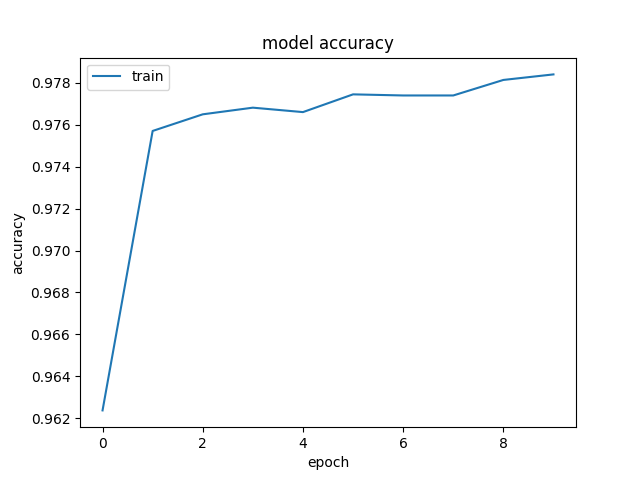
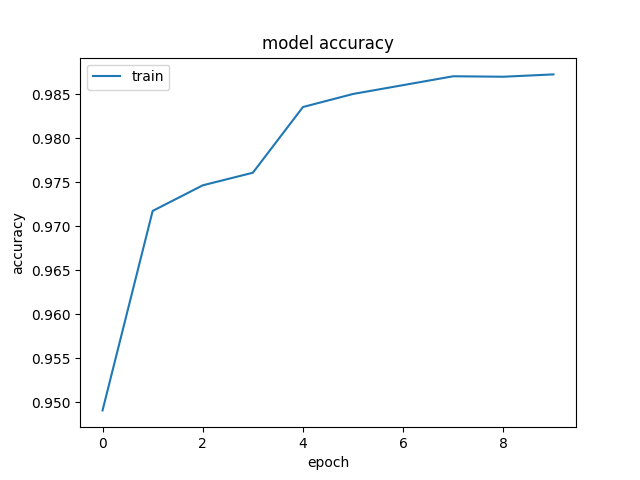
finish the tasks

diff --git a/lab-cs-ml-00301/u3.py b/lab-cs-ml-00301/u3.py
@@ -1,0 +1,228 @@
+# -*- coding: utf-8 -*-
+
+
+# To load a dataset file in Python, you can use Pandas. Import pandas using the line below
+import pandas as pd
+# Import numpy to perform operations on the dataset
+import numpy as np
+
+# Splitting the dataset into the Training set and Test set (75% of data are used for training)
+# reference: https://scikit-learn.org/stable/modules/generated/sklearn.model_selection.train_test_split.html
+from sklearn.model_selection import train_test_split
+
+# Perform feature scaling. For ANN you can use StandardScaler, for RNNs recommended is
+# MinMaxScaler.
+# referece: https://scikit-learn.org/stable/modules/generated/sklearn.preprocessing.StandardScaler.html
+# https://scikit-learn.org/stable/modules/preprocessing.html
+from sklearn.preprocessing import StandardScaler
+
+# Encoding categorical data (convert letters/words in numbers)
+# Reference: https://medium.com/@contactsunny/label-encoder-vs-one-hot-encoder-in-machine-learning-3fc273365621
+# The following code work without warning in Python 3.6 or older. Newer versions suggest to use ColumnTransformer
+'''
+from sklearn.preprocessing import LabelEncoder, OneHotEncoder
+le = LabelEncoder()
+X[:, 1] = le.fit_transform(X[:, 1])
+X[:, 2] = le.fit_transform(X[:, 2])
+X[:, 3] = le.fit_transform(X[:, 3])
+onehotencoder = OneHotEncoder(categorical_features = [1, 2, 3])
+X = onehotencoder.fit_transform(X).toarray()
+'''
+# The following code work Python 3.7 or newer
+from sklearn.preprocessing import OneHotEncoder
+from sklearn.compose import ColumnTransformer
+
+# Importing the Keras libraries and packages
+# import keras
+from keras.models import Sequential
+from keras.layers import Dense
+
+DataPath = "D:/python/Unit/lab-cs-ml-00301"
+
+
+def run_sa():
+    train_data = "/Sa/Training-a1-a3.csv"
+    test_data = "/Sa/Testing-a2-a4.csv"
+    return train_data, test_data
+
+
+def run_sb():
+    train_data = "/Sb/Training-a1-a2.csv"
+    test_data = "/Sb/Testing-a1.csv"
+    return train_data, test_data
+
+
+def run_sc():
+    train_data = "/Sc/Training-a1-a2.csv"
+    test_data = "/Sc/Testing-a1-a2-a3.csv"
+    return train_data, test_data
+
+
+def run_fnn(train_data, test_data):
+    ########################################
+    # Part 1 - Data Pre-Processing
+    #######################################
+
+    # Batch Size
+    BatchSize = 10
+    # Epohe Size
+    NumEpoch = 10
+
+    # Import dataset.
+    # Dataset is given in TraningData variable You can replace it with the file
+
+    # train data
+    train_dataset = pd.read_csv(DataPath + train_data, header=None)
+    X_train = train_dataset.iloc[:, 0:-2].values
+    train_label_column = train_dataset.iloc[:, -2].values
+    y_train = []
+    for i in range(len(train_label_column)):
+        if train_label_column[i] == 'normal':
+            y_train.append(0)
+        else:
+            y_train.append(1)
+
+    # Convert ist to array
+    y_train = np.array(y_train)
+
+    # test data
+    test_dataset = pd.read_csv(DataPath + test_data, header=None)
+    X_test = test_dataset.iloc[:, 0:-2].values
+    test_label_column = test_dataset.iloc[:, -2].values
+    y_test = []
+    for i in range(len(test_label_column)):
+        if test_label_column[i] == 'normal':
+            y_test.append(0)
+        else:
+            y_test.append(1)
+
+    # Convert ist to array
+    y_test = np.array(y_test)
+
+    ct = ColumnTransformer(
+        [('one_hot_encoder', OneHotEncoder(), [1, 2, 3])],
+        # The column numbers to be transformed ([1, 2, 3] represents three columns to be transferred)
+        remainder='passthrough'  # Leave the rest of the columns untouched
+    )
+
+    # 归一化处理
+    # 将训练数据集和测试数据集合并，做一个归一transform，然后使用这个transform来归一测试与训练数据集
+    X_all = np.vstack((X_train, X_test))
+    ct.fit(X_all)
+    X_train = np.array(ct.transform(X_train), dtype=np.float)
+    X_test = np.array(ct.transform(X_test), dtype=np.float)
+    print(type(X_train))
+
+    # X_train = np.array(ct.fit_transform(X_train), dtype=np.float)
+    print(X_train.shape)
+
+    # X_test = np.array(ct.fit_transform(X_test), dtype=np.float)
+    print(X_test.shape)
+
+    # ================== #
+    # X_train, X_test, y_train, y_test = train_test_split(X, y, test_size=0.25, random_state=0)
+    # ================== #
+
+    # 归一化 --- 因为数据集
+    sc = StandardScaler()
+    X_all = np.vstack((X_train, X_test))
+    sc.fit(X_all)
+    X_train = sc.transform(X_train)
+    X_test = sc.transform(X_test)
+    # X_train = sc.fit_transform(X_train)  # Scaling to the range [0,1]
+    # X_test = sc.fit_transform(X_test)
+
+    ########################################
+    # Part 2: Building FNN
+    #######################################
+
+    # Initialising the ANN
+    # Reference: https://machinelearningmastery.com/tutorial-first-neural-network-python-keras/
+    classifier = Sequential()
+
+    # Adding the input layer and the first hidden layer, 6 nodes, input_dim specifies the number of variables rectified
+    # linear unit activation function relu, reference:
+    # https://machinelearningmastery.com/rectified-linear-activation-function-for-deep-learning-neural-networks/
+    classifier.add(Dense(units=6, kernel_initializer='uniform', activation='relu', input_dim=len(X_train[0])))
+
+    # Adding the second hidden layer, 6 nodes
+    classifier.add(Dense(units=6, kernel_initializer='uniform', activation='relu'))
+
+    # Adding the output layer, 1 node,
+    # sigmoid on the output layer is to ensure the network output is between 0 and 1
+    classifier.add(Dense(units=1, kernel_initializer='uniform', activation='sigmoid'))
+
+    # Compiling the ANN, Gradient descent algorithm “adam“, Reference:
+    # https://machinelearningmastery.com/adam-optimization-algorithm-for-deep-learning/ This loss is for a binary
+    # classification problems and is defined in Keras as “binary_crossentropy“, Reference:
+    # https://machinelearningmastery.com/how-to-choose-loss-functions-when-training-deep-learning-neural-networks/
+    classifier.compile(optimizer='adam', loss='binary_crossentropy', metrics=['accuracy'])
+
+    # Fitting the ANN to the Training set
+    # Train the model so that it learns a good (or good enough) mapping of rows of input data to the output classification.
+    # add verbose=0 to turn off the progress report during the training
+    # To run the whole training dataset as one Batch, assign batch size: BatchSize=X_train.shape[0]
+    classifierHistory = classifier.fit(X_train, y_train, batch_size=BatchSize, epochs=NumEpoch)
+
+    # evaluate the keras model for the provided model and dataset
+    loss, accuracy = classifier.evaluate(X_train, y_train)
+    print('Print the loss and the accuracy of the model on the dataset')
+    print('Loss [0,1]: %.4f' % loss, 'Accuracy [0,1]: %.4f' % accuracy)
+
+    ########################################
+    # Part 3 - Making predictions and evaluating the model
+    #######################################
+
+    # Predicting the Test set results
+    y_pred = classifier.predict(X_test)
+    y_pred = (y_pred > 0.9)  # y_pred is 0 if less than 0.9 or equal to 0.9, y_pred is 1 if it is greater than 0.9
+    # summarize the first 5 cases
+    # for i in range(5):
+    # print('%s => %d (expected %d)' % (X_test[i].tolist(), y_pred[i], y_test[i]))
+
+    # Making the Confusion Matrix
+    # [TN, FP ]
+    # [FN, TP ]
+    from sklearn.metrics import confusion_matrix
+
+    cm = confusion_matrix(y_test, y_pred)
+    print('Print the Confusion Matrix:')
+    print('[ TN, FP ]')
+    print('[ FN, TP ]=')
+    print(cm)
+
+    ########################################
+    # Part 4 - Visualizing
+    #######################################
+
+    # Import matplot lib libraries for plotting the figures.
+    import matplotlib.pyplot as plt
+
+    # You can plot the accuracy
+    print('Plot the accuracy')
+    # Keras 2.2.4 recognizes 'acc' and 2.3.1 recognizes 'accuracy'
+    # use the command python -c 'import keras; print(keras.__version__)' on MAC or Linux to check Keras' version
+    plt.plot(classifierHistory.history['accuracy'])
+    plt.title('model accuracy')
+    plt.ylabel('accuracy')
+    plt.xlabel('epoch')
+    plt.legend(['train'], loc='upper left')
+    plt.savefig('accuracy_sample.png')
+    plt.show()
+
+    # You can plot history for loss
+    print('Plot the loss')
+    plt.plot(classifierHistory.history['loss'])
+    plt.title('model loss')
+    plt.ylabel('loss')
+    plt.xlabel('epoch')
+    plt.legend(['train'], loc='upper left')
+    plt.savefig('loss_sample.png')
+    plt.show()
+
+
+if __name__ == '__main__':
+    # train, test = run_sa()
+    train, test = run_sb()
+    # train, test = run_sc()
+    run_fnn(train, test)
